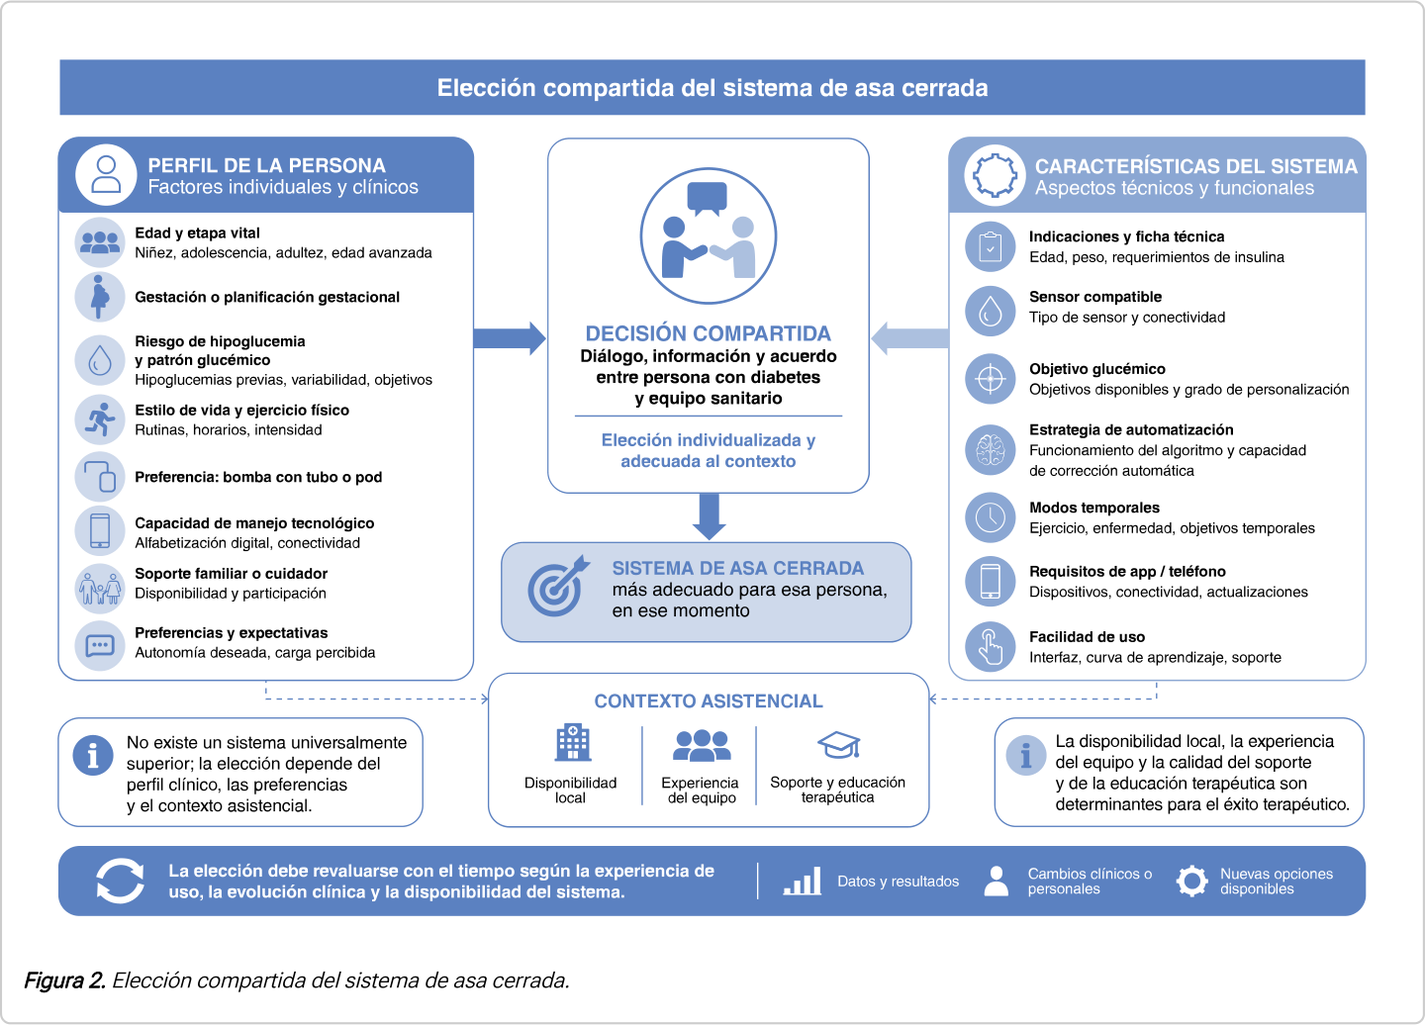
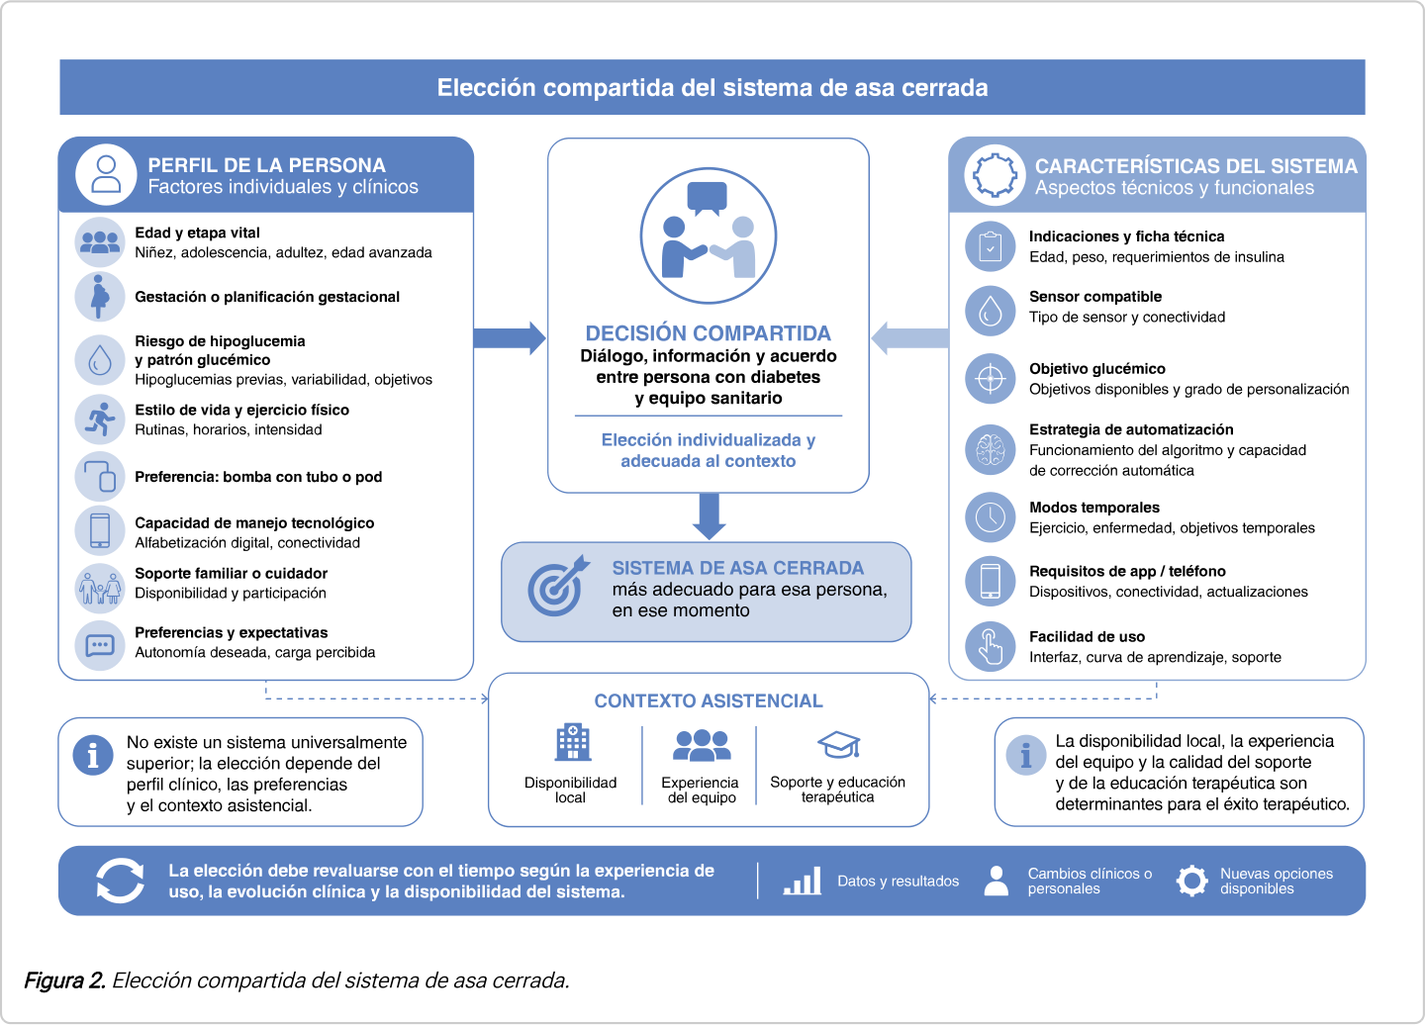
0.12.0: el capítulo publicado en el Manual SEEN (8-10-2026) como fuente única
- Capítulo 89, ISBN 978-84-606-8570-8, enlace a manual.seen.es en la
  portada, «Sobre esta versión» y «Cómo citar» (cita definitiva).
- Tabla 1: «peso 25–140 kg» también en Control-IQ, como en el publicado.
- Figuras recortadas del PDF publicado; pacientes y resumen, idénticos.
- Pendientes: quedan la autorización de la versión web y el test.
- fidelidad.py y fidelidad_extra.py contra el PDF publicado (147/147).

diff --git a/src/contenido/cambios.ts b/src/contenido/cambios.ts
@@ -16,6 +16,7 @@ export const CAMBIOS: Cambio[] = [
     ambito: "app",
     titulo: `Manual SEEN · AID ${VERSION_APP} — primero la consulta, búsqueda más honesta y hojas legibles`,
     detalle: [
+      "El texto es ya el del capítulo publicado en el Manual SEEN el 8-10-2026 (capítulo 89), con enlace a su página oficial desde la portada, «Sobre esta versión» y «Cómo citar»; la cita lleva el ISBN y la fecha de publicación.",
       "Portada orientada a la consulta del día a día: «Consultar» va primero, seguido del buscador, los cuatro sistemas y los diagramas; el capítulo completo sigue a un toque («Leer el capítulo» e «Índice»). El rótulo de área es «Área II. Diabetes», como en el Manual.",
       "Textos de la interfaz en tono neutro: «Guía rápida», «Ampliación técnica», «Versión extendida» y «Pendiente de validación», sin avisos repetidos en cada pantalla. Las notas de trabajo sobre el contenido dejan de mostrarse en la web.",
       "Búsqueda: arriba sale el «pasaje del capítulo» que mejor encaja (ya no «la respuesta»), o una «coincidencia parcial» si solo coincide en parte; el enlace dice adónde lleva («Ver en el apartado», «Ver la tabla», «Ver la figura»). Al principio se ven los mejores resultados y el resto con «Ver más resultados».",
@@ -24,7 +25,17 @@ export const CAMBIOS: Cambio[] = [
       "Sistemas: «Qué mueve el modo automático» pasa a «Parámetros configurables en modo automático» (el rótulo de la Tabla 1), separando los de efecto directo sobre el algoritmo (*) de los que intervienen sobre todo en los bolos o en el modo manual.",
       "Figura 3: al abrir una rama, también por enlace directo, debajo van las notas comunes de la figura (insulina con pluma, situaciones especiales, registro) y a quién se refieren las dosis.",
       "Hojas para el paciente: letra grande por defecto; la de una cara queda como versión compacta. Al pie, que lo escrito a mano no aparece en la web, la versión de la hoja y la fecha del capítulo.",
-      "Lectura: en el móvil, las cifras del apartado empiezan plegadas para que el texto aparezca antes. «Cómo citar» se rotula como cita provisional. La página de tablas explica qué pregunta responde cada una. Los enlaces a la edición educativa de ejercicio, comidas y cirugía llevan a su apartado, no al catálogo general. Rótulos más precisos en tarjetas, consulta y sistemas.",
+      "Lectura: en el móvil, las cifras del apartado empiezan plegadas para que el texto aparezca antes. La página de tablas explica qué pregunta responde cada una. Los enlaces a la edición educativa de ejercicio, comidas y cirugía llevan a su apartado, no al catálogo general. Rótulos más precisos en tarjetas, consulta y sistemas.",
+    ],
+  },
+  {
+    fecha: "2026-10-08",
+    ambito: "capitulo",
+    titulo: "Capítulo publicado en el Manual SEEN (capítulo 89)",
+    detalle: [
+      "Publicado el 8 de octubre de 2026 en manual.seen.es, en el Área II (Diabetes), subsección Tratamiento, con ISBN 978-84-606-8570-8.",
+      "Lleva las 3 correcciones finales del 5-10-2026 y añade «peso» también en la indicación de Control-IQ de la Tabla 1 («peso 25–140 kg»). El resto del texto, las tablas y las figuras son los de la maquetación del 5-10-2026.",
+      "La información para pacientes y el resumen publicados son, palabra por palabra, los que muestra esta app.",
     ],
   },
   {
@@ -271,6 +282,4 @@ export const CAMBIOS: Cambio[] = [
 export const PENDIENTES: string[] = [
   "La autorización de la SEEN y de la editorial (ec-europe) para esta versión web, y su alojamiento.",
   "La validación final de las diez preguntas del test.",
-  "La incorporación al capítulo maquetado de sus 3 correcciones finales del 5-10-2026 (esta versión ya las aplica).",
-  "El ISBN y la fecha de publicación del capítulo en el Manual SEEN, para «Cómo citar».",
 ];

diff --git a/src/pantallas/Otras.tsx b/src/pantallas/Otras.tsx
@@ -367,14 +367,14 @@ export function Cambios() {
 }
 
 /* ---------- Sobre esta versión ---------- */
-/* Anotadas en la maquetación del 5-10-2026; la editorial aún no las ha pasado. */
+/* Anotadas en la maquetación del 5-10-2026 y ya en el capítulo publicado el 8-10-2026. */
 const CORRECCIONES_FINALES = [
   "Final 1/3 (p. 4, Tabla 1, Control-IQ+): «peso 9–200 kg, DTD 5–200 UI/día».",
   "Final 2/3 (p. 15, Resolución de incidencias): con iSGLT2 ya no se rebaja el umbral a 200 mg/dl; «debe mantenerse una alta sospecha de cetoacidosis y medirse la cetonemia ante síntomas o situaciones de riesgo, con independencia del nivel de glucemia».",
   "Final 3/3 (p. 25, bibliografía): «doi:10.2337/dci26-0122» al final de la referencia 6.",
 ];
 
-/* Las 11 del 30-9-2026: la maquetación del 5-10-2026 ya las trae. */
+/* Las 11 del 30-9-2026: ya en la maquetación del 5-10-2026 y en el capítulo publicado. */
 const CORRECCIONES = [
   "1/11 (p. 3): «control predictivo basado en modelo (MPC) y lógica difusa».",
   "2/11 (pp. 3–4): «Sistemas AID comercializados en España» en el texto y en el título de la Tabla 1.",
@@ -423,10 +423,19 @@ export function Sobre() {
         </p>
         <h2 className="mt-5 text-base font-extrabold text-slate-900">De dónde sale el texto</h2>
         <p className="mt-2 text-sm">
-          El texto es el del capítulo, literal, de la maquetación final del {CAPITULO.fechaFuente} (
-          {CAPITULO.editorial}, {CAPITULO.paginas} páginas), con sus 3 correcciones finales
-          aplicadas. Cada bloque lleva su página. Las figuras, que en el PDF son imágenes, están
-          transcritas caja a caja.
+          El texto es el del capítulo {CAPITULO.numero} del {CAPITULO.obra} ({CAPITULO.area} ·{" "}
+          {CAPITULO.subseccion}), literal, tal como se publicó el {CAPITULO.fechaFuente} (
+          {CAPITULO.editorial}, {CAPITULO.paginas} páginas, ISBN {CAPITULO.isbn}). Cada bloque lleva
+          su página del PDF. Las figuras, que en el PDF son imágenes, están transcritas caja a caja.{" "}
+          <a
+            href={CAPITULO.url}
+            target="_blank"
+            rel="noopener noreferrer"
+            className="font-semibold text-slate-800 underline underline-offset-2"
+          >
+            Ver el capítulo en el Manual SEEN
+          </a>
+          .
         </p>
         <h2 className="mt-5 text-base font-extrabold text-slate-900">
           El capítulo y, aparte, lo que no es del capítulo
@@ -478,10 +487,10 @@ export function Sobre() {
         aria-labelledby="s-corr"
       >
         <h2 id="s-corr" className="text-base font-extrabold text-slate-900">
-          Correcciones editoriales aplicadas
+          Correcciones editoriales, ya incluidas en el capítulo publicado
         </h2>
         <h3 className="mt-3 text-sm font-bold text-slate-900">
-          Las 3 correcciones finales (maquetación del 5-10-2026)
+          Las 3 correcciones finales del 5-10-2026
         </h3>
         <ol className="mt-2 space-y-1 text-sm text-slate-700">
           {CORRECCIONES_FINALES.map((c, i) => (
@@ -495,9 +504,7 @@ export function Sobre() {
             </li>
           ))}
         </ol>
-        <h3 className="mt-4 text-sm font-bold text-slate-900">
-          Las 11 del 30-9-2026, que la maquetación del 5-10-2026 ya incorpora
-        </h3>
+        <h3 className="mt-4 text-sm font-bold text-slate-900">Las 11 del 30-9-2026</h3>
         <ol className="mt-2 space-y-1 text-sm text-slate-700">
           {CORRECCIONES.map((c, i) => (
             <li key={i} className="flex gap-2">

diff --git a/src/pacientes/textos.ts b/src/pacientes/textos.ts
@@ -1,8 +1,8 @@
 /* Textos para pacientes, LITERALES, del autor del capítulo. Capa «Para el paciente»: no es
    texto del capítulo y se muestra siempre rotulada.
-   · Información para pacientes: versión corregida V5 del autor. La maquetación de la editorial
-     del 5-10-2026 es idéntica a ella palabra por palabra (la del 30-9-2026 era anterior).
-   · Resumen: maquetación de la editorial del 30-9-2026 (idéntica palabra por palabra a la V6 del autor).
+   · Información para pacientes: versión V5, idéntica palabra por palabra a la publicada en el
+     Manual el 8-10-2026 (y a la maquetación del 5-10; la del 30-9 era anterior).
+   · Resumen: V6, idéntico palabra por palabra al publicado el 8-10-2026 (y a la maquetación del 30-9).
    Generado desde los .docx del autor; la auditoría (scripts/auditoria/fidelidad_extra.py) lo comprueba.
    No editar a mano. */
 
@@ -18,7 +18,7 @@ export const AUTOR_PACIENTES =
 
 export const INFORMACION_PACIENTES = {
   rotulo: "Información para pacientes",
-  fuente: "Maquetación de la editorial (ec-europe, 5-10-2026)",
+  fuente: "Manual SEEN, publicado el 8-10-2026",
   secciones: [
     {
       pregunta: "¿Qué es un sistema de asa cerrada?",
@@ -104,7 +104,7 @@ export const INFORMACION_PACIENTES = {
 
 export const RESUMEN_CAPITULO = {
   rotulo: "Resumen",
-  fuente: "Maquetación de la editorial (ec-europe, 30-9-2026)",
+  fuente: "Manual SEEN, publicado el 8-10-2026",
   parrafos: [
     "Los sistemas de administración automatizada de insulina (AID, automated insulin delivery), también denominados sistemas de asa cerrada, integran monitorización continua de glucosa, bomba de insulina o pod y un algoritmo que ajusta dinámicamente la administración de insulina según los valores y las tendencias de la glucosa. Pueden considerarse una modalidad preferente de administración de insulina en la diabetes tipo 1 en personas capaces de utilizarlos con seguridad, por sí mismas o con apoyo, con el objetivo de aumentar el tiempo en rango, reducir la hipoglucemia y la variabilidad glucémica, mejorar la seguridad y disminuir la carga cotidiana del autocuidado.",
     "La mayoría de los sistemas AID actualmente disponibles son híbridos: automatizan gran parte de la administración de insulina y, en algunos casos, realizan autocorrecciones, pero siguen requiriendo la participación de la persona para anunciar comidas, administrar bolos prandiales, responder a alarmas, realizar recambios y actuar ante incidencias. Las modalidades de asa cerrada completa (fully closed-loop), como la modalidad Liberty de myLoop powered by CamAPS FX, reducen la necesidad de bolos para las comidas en las situaciones en las que está previsto su uso, aunque no sustituyen la educación terapéutica ni el plan de seguridad.",

diff --git a/src/contenido/figuras.ts b/src/contenido/figuras.ts
@@ -1,7 +1,7 @@
 /* Figuras 1 y 2 e infografía: en el PDF son imágenes; aquí, cada caja transcrita en texto,
    en orden de lectura. La infografía lleva las seis correcciones de la anotación 9/11.
-   Las imágenes de public/figuras/ son recortes de la maquetación del 5-10-2026 (vectorial,
-   a 1440 px y sin anotaciones; provisionales, a falta de los archivos fuente de la editorial). */
+   Las imágenes de public/figuras/ son recortes del PDF publicado en el Manual el 8-10-2026
+   (vectorial, a 1440 px, por el marco de cada figura). */
 import type { Figura, FiguraId } from "./tipos";
 
 export const F1: Figura = {
@@ -14,7 +14,7 @@ export const F1: Figura = {
   imagen: {
     src: "figuras/figura-1.webp",
     alt: "Figura 1 del capítulo: diagrama circular con el sensor de MCG, el algoritmo de control, la bomba de insulina o pod y la plataforma de descarga, alrededor de la persona con diabetes tipo 1, y el equipo sanitario.",
-    nota: "Imagen de la maquetación del 5-10-2026 (provisional, a falta del archivo fuente).",
+    nota: "Imagen del capítulo publicado en el Manual SEEN (8-10-2026).",
   },
   cajas: [
     {
@@ -64,7 +64,7 @@ export const F2: Figura = {
   imagen: {
     src: "figuras/figura-2.webp",
     alt: "Figura 2 del capítulo: el perfil de la persona y las características del sistema confluyen en la decisión compartida, que lleva al sistema de asa cerrada más adecuado, con el contexto asistencial debajo.",
-    nota: "Imagen de la maquetación del 5-10-2026 (provisional, a falta del archivo fuente).",
+    nota: "Imagen del capítulo publicado en el Manual SEEN (8-10-2026).",
   },
   cajas: [
     {
@@ -130,7 +130,7 @@ export const INFO: Figura = {
   imagen: {
     src: "figuras/infografia.webp",
     alt: "Infografía del capítulo en cuatro bloques: beneficios, qué es un sistema de asa cerrada, indicación e implementación y seguimiento, con el plan de seguridad y la franja «No olvides».",
-    nota: "Imagen de la maquetación del 5-10-2026, que ya lleva las seis correcciones de la anotación 9/11 (provisional, a falta del archivo fuente).",
+    nota: "Imagen del capítulo publicado en el Manual SEEN (8-10-2026).",
   },
   cajas: [
     {

diff --git a/src/componentes/Lectura.tsx b/src/componentes/Lectura.tsx
@@ -16,7 +16,7 @@ import {
   Star,
   Volume2,
 } from "lucide-react";
-import { idDeBloque, type Apartado } from "../contenido";
+import { CAPITULO, idDeBloque, type Apartado } from "../contenido";
 import { plano } from "../marcado";
 import { alternarFavorito, useFavoritos } from "../prefs";
 import { citaDeApartado } from "../compartir";
@@ -113,9 +113,6 @@ export function ComoCitar({ apartado }: { apartado: Apartado }) {
           className="mt-2 w-full rounded-xl border bg-white p-3 text-sm"
           style={{ borderColor: "#e6e6e6" }}
         >
-          <p className="mb-1 text-xs font-bold uppercase tracking-wide text-amber-800">
-            Cita provisional
-          </p>
           <p className="select-all text-slate-800">{texto}</p>
           <div className="mt-2 flex flex-wrap items-center gap-2">
             <button
@@ -140,9 +137,14 @@ export function ComoCitar({ apartado }: { apartado: Apartado }) {
             <span role="status" className="text-xs text-slate-600">
               {copiado === "error" && "No se pudo copiar: selecciona el texto y cópialo a mano."}
             </span>
-            <span className="text-xs text-slate-500">
-              ISBN y fecha de publicación del Manual: pendientes de confirmar con la SEEN.
-            </span>
+            <a
+              href={CAPITULO.url}
+              target="_blank"
+              rel="noopener noreferrer"
+              className="inline-flex min-h-11 items-center gap-1 text-xs font-semibold text-slate-700 hover:underline"
+            >
+              Ver el capítulo en el Manual SEEN <ExternalLink size={12} aria-hidden="true" />
+            </a>
           </div>
         </div>
       )}

diff --git a/src/pantallas/Portada.tsx b/src/pantallas/Portada.tsx
@@ -6,6 +6,7 @@ import { useState } from "react";
 import {
   ArrowRight,
   BookOpen,
+  ExternalLink,
   CircleCheck,
   Clock3,
   Droplets,
@@ -530,7 +531,9 @@ export function Portada() {
               />
               <span>Manual SEEN</span>
               <span aria-hidden="true">·</span>
-              <span>Área II. Diabetes</span>
+              <span>{CAPITULO.area}</span>
+              <span aria-hidden="true">·</span>
+              <span>Capítulo {CAPITULO.numero}</span>
             </div>
             <h1
               id="titulo-capitulo"
@@ -575,6 +578,14 @@ export function Portada() {
               >
                 Índice <ArrowRight size={15} aria-hidden="true" />
               </a>
+              <a
+                href={CAPITULO.url}
+                target="_blank"
+                rel="noopener noreferrer"
+                className="inline-flex min-h-11 items-center gap-1 px-1 text-sm font-semibold text-slate-700 underline-offset-2 hover:underline"
+              >
+                En el Manual SEEN <ExternalLink size={14} aria-hidden="true" />
+              </a>
             </div>
             <SeguirLeyendo />
             <ul className="mt-5 hidden flex-wrap gap-x-4 gap-y-1 text-xs text-slate-600 sm:flex">
@@ -591,7 +602,7 @@ export function Portada() {
                 <span className="font-semibold tabular-nums text-slate-900">3</span> figuras
               </li>
               <li>
-                Texto final del{" "}
+                Publicado el{" "}
                 <span className="font-semibold text-slate-900">{fecha(ultimoCap.fecha)}</span>
               </li>
             </ul>

diff --git a/src/contenido/tablas.ts b/src/contenido/tablas.ts
@@ -1,4 +1,4 @@
-/* Las seis tablas del capítulo, literales (PDF 5-10-2026, que ya trae las correcciones 3/11
+/* Las seis tablas del capítulo, literales (PDF publicado el 8-10-2026, con las correcciones 3/11
    —Tabla 1, Omnipod 5, indicación—, 6/11 —Tabla 3, «mg/dl»—, 7/11 —Tabla 4, fila «Ejercicio
    anaeróbico» reconstruida— y 8/11 —Tabla 6, «computarizada»—). Aplicada además la corrección
    final 1/3 (Tabla 1, Control-IQ+: «peso 9–200 kg, DTD 5–200 UI/día»), anotada en el PDF. */
@@ -89,8 +89,9 @@ export const T1: Tabla = {
       etiqueta: "Indicación",
       celdas: [
         "≥ 2 años; DTD ≥ 6 UI/día\nAutorización en diabetes tipo 2 (marcado CE)",
-        // Errata corregida (autor): «peso 9–200 kg, DTD 5–200 UI/día».
-        "Control-IQ: ≥ 6 años, 25–140 kg, DTD 10–100 UI/día\nControl-IQ+: ≥ 2 años, peso 9–200 kg, DTD 5–200 UI/día; autorización en diabetes tipo 2 (FDA y marcado CE)",
+        // Corrección final 1/3 («peso 9–200 kg, DTD 5–200 UI/día»); el publicado del 8-10-2026
+        // añade también «peso» en Control-IQ.
+        "Control-IQ: ≥ 6 años, peso 25–140 kg, DTD 10–100 UI/día\nControl-IQ+: ≥ 2 años, peso 9–200 kg, DTD 5–200 UI/día; autorización en diabetes tipo 2 (FDA y marcado CE)",
         "≥ 1 año; peso ≥ 10 kg; DTD 5–350 UI/día;\nLiberty: > 13 años",
         // Corrección editorial 3/11.
         "≥ 2 años; sin peso mínimo; DTD ≥ 5 UI/día\nAutorización en diabetes tipo 2 (≥ 18 años) por la FDA",

diff --git a/src/compartir.ts b/src/compartir.ts
@@ -1,7 +1,5 @@
 /* Direcciones para compartir (QR, enlaces) y cita de un apartado. Sin React. */
 import { CAPITULO, type Apartado } from "./contenido";
-import { VERSION_APP } from "./contenido/cambios";
-import { href } from "./rutas";
 
 /* Dirección pública de la app (mientras se aloje en Cloudflare Pages). */
 export const DIRECCION_PUBLICA = "https://manual-seen-aid.pages.dev/";
@@ -26,6 +24,7 @@ export const direccion = (hash: string) => {
 const hoy = () =>
   new Date().toLocaleDateString("es-ES", { day: "numeric", month: "long", year: "numeric" });
 
+/* Cita del capítulo publicado en el Manual (8-10-2026), con el apartado y sus páginas del PDF. */
 export const citaDeApartado = (a: Apartado) => {
   const pags =
     a.paginas[0] === a.paginas[1] ? `p. ${a.paginas[0]}` : `pp. ${a.paginas[0]}–${a.paginas[1]}`;
@@ -36,8 +35,8 @@ export const citaDeApartado = (a: Apartado) => {
       .join(" ")
       .replace(/^(\S+) (\S)\S*$/, "$1 $2")}. ` +
     `${CAPITULO.titulo}. Apartado ${a.n}: ${a.titulo}, ${pags}. ` +
-    `En: Manual SEEN. ${CAPITULO.sociedad}; 2026. ` +
-    `Versión web Manual SEEN · AID ${VERSION_APP} [consultado el ${hoy()}]. ` +
-    `Disponible en: ${direccion(href("capitulo", a.slug))}`
+    `En: ${CAPITULO.obra}. ${CAPITULO.sociedad}; 2026 ` +
+    `[actualizado el ${CAPITULO.fechaFuente}; consultado el ${hoy()}]. ISBN ${CAPITULO.isbn}. ` +
+    `Disponible en: ${CAPITULO.url}`
   );
 };

diff --git a/src/ampliacion/fuentes.ts b/src/ampliacion/fuentes.ts
@@ -256,9 +256,10 @@ export const FUENTES: Record<string, Fuente> = {
     label:
       "Kyriakos G. · Capítulo «Tratamiento insulínico del paciente con diabetes mellitus tipo 1: automatización de la insulinoterapia» (Manual SEEN)",
     kind: "guia",
-    ref: "Manual SEEN de endocrinología (ec-europe) · ISBN 978-84-606-8570-8 · maquetación final del 5-10-2026 con las correcciones editoriales del autor, pendiente de publicación · tablas de sistemas, transición desde MDI, parámetros por sistema, análisis de la descarga, Figura 3 (algoritmo de cetonemia con dosis orientativas 0,1 y 0,15 UI/kg en adultos), interrupción y pauta alternativa, situaciones especiales y Tabla 6 de exploraciones",
+    ref: "Manual SEEN de endocrinología (ec-europe) · ISBN 978-84-606-8570-8 · capítulo 89, publicado el 8-10-2026 en manual.seen.es · tablas de sistemas, transición desde MDI, parámetros por sistema, análisis de la descarga, Figura 3 (algoritmo de cetonemia con dosis orientativas 0,1 y 0,15 UI/kg en adultos), interrupción y pauta alternativa, situaciones especiales y Tabla 6 de exploraciones",
     date: "2026",
     checked: "octubre de 2026",
+    url: "https://manual.seen.es/article?id=6ac781b3-b8f0-43a6-959e-3bc70aca0133",
   },
   shah2026: {
     label: "Shah et al. · Optimización de Control-IQ+",

diff --git a/src/contenido.test.ts b/src/contenido.test.ts
@@ -176,6 +176,8 @@ describe("correcciones editoriales aplicadas", () => {
   it("final 1/3 (5-10-2026): Control-IQ+ peso 9–200 kg, DTD 5–200 UI/día", () => {
     const ind = TABLAS.T1.filas.find((f) => f.etiqueta === "Indicación")!;
     expect(ind.celdas[1]).toContain("Control-IQ+: ≥ 2 años, peso 9–200 kg, DTD 5–200 UI/día");
+    // El capítulo publicado (8-10-2026) pone «peso» también en Control-IQ.
+    expect(ind.celdas[1]).toContain("Control-IQ: ≥ 6 años, peso 25–140 kg, DTD 10–100 UI/día");
     expect(todo).not.toContain("DTD 9–200 kg");
   });
   it("final 2/3 (5-10-2026): iSGLT2 sin umbral rebajado a 200 mg/dl", () => {
@@ -251,7 +253,7 @@ describe("convenciones de escritura", () => {
   });
   it("los cambios llevan fecha ISO y hay pendientes visibles", () => {
     for (const c of CAMBIOS) expect(c.fecha).toMatch(/^\d{4}-\d{2}-\d{2}$/);
-    expect(PENDIENTES.length).toBeGreaterThanOrEqual(3);
+    expect(PENDIENTES.length).toBeGreaterThanOrEqual(2);
     // Lo del lector, corto, neutro y sin jerga interna (el detalle, en docs/NOTAS_EDITORIALES.md).
     expect(PENDIENTES.length).toBeLessThanOrEqual(5);
     for (const p of PENDIENTES) expect(p).not.toMatch(/asistente-aid|E\d\d|auditoría|\bautor\b/);

diff --git a/src/contenido/index.ts b/src/contenido/index.ts
@@ -22,13 +22,18 @@ export const CAPITULO = {
   autor: "Georgios Kyriakos",
   filiacion:
     "Servicio de Endocrinología y Nutrición. Hospital General Universitario Santa Lucía. Cartagena. Murcia.",
-  obra: "Manual SEEN · Actualización SEEN",
+  obra: "Manual de Endocrinología y Nutrición de la SEEN",
   sociedad: "Sociedad Española de Endocrinología y Nutrición (SEEN)",
   editorial: "ec-europe",
-  /* Fecha de la maquetación final que sirve de fuente única a esta app. */
-  fechaFuente: "5 de octubre de 2026",
-  fechaFuenteISO: "2026-10-05",
+  /* Publicación en el Manual (manual.seen.es): fuente única de esta app desde el 8-10-2026. */
+  fechaFuente: "8 de octubre de 2026",
+  fechaFuenteISO: "2026-10-08",
   paginas: 25,
+  numero: 89,
+  area: "Área II. Diabetes",
+  subseccion: "Tratamiento",
+  isbn: "978-84-606-8570-8",
+  url: "https://manual.seen.es/article?id=6ac781b3-b8f0-43a6-959e-3bc70aca0133",
   /* Capítulo del Manual SEEN que precede a este (MDI), al que remite la introducción (p. 1). */
   continuaA: "Tratamiento insulínico del paciente con diabetes tipo 1: múltiples dosis de insulina",
 } as const;

diff --git a/src/pantallas/Pacientes.tsx b/src/pantallas/Pacientes.tsx
@@ -1,4 +1,4 @@
-/* «Para el paciente»: información para pacientes (V5 del autor = maquetación del 5-10-2026) y
+/* «Para el paciente»: información para pacientes (V5 = la publicada el 8-10-2026) y
    resumen (maquetación de la editorial), literales; y la hoja «Plan de seguridad» de cada sistema, hecha SOLO con texto
    del capítulo (pp. 7-9, Figura 3 y Tabla 4) y huecos para rellenar a mano. Cada hoja se imprime
    en una cara A4 (letra pequeña, dos columnas) o, a elegir, con letra grande (una columna,
@@ -157,8 +157,7 @@ function Hoja({
           </p>
           <p className="break-all">{direccion(ruta)}</p>
           <div className="mt-1">
-            {pie} Hoja de la versión {VERSION_APP}; capítulo de la maquetación del{" "}
-            {CAPITULO.fechaFuente}.
+            {pie} Hoja de la versión {VERSION_APP}; capítulo publicado el {CAPITULO.fechaFuente}.
           </div>
         </div>
       </footer>
